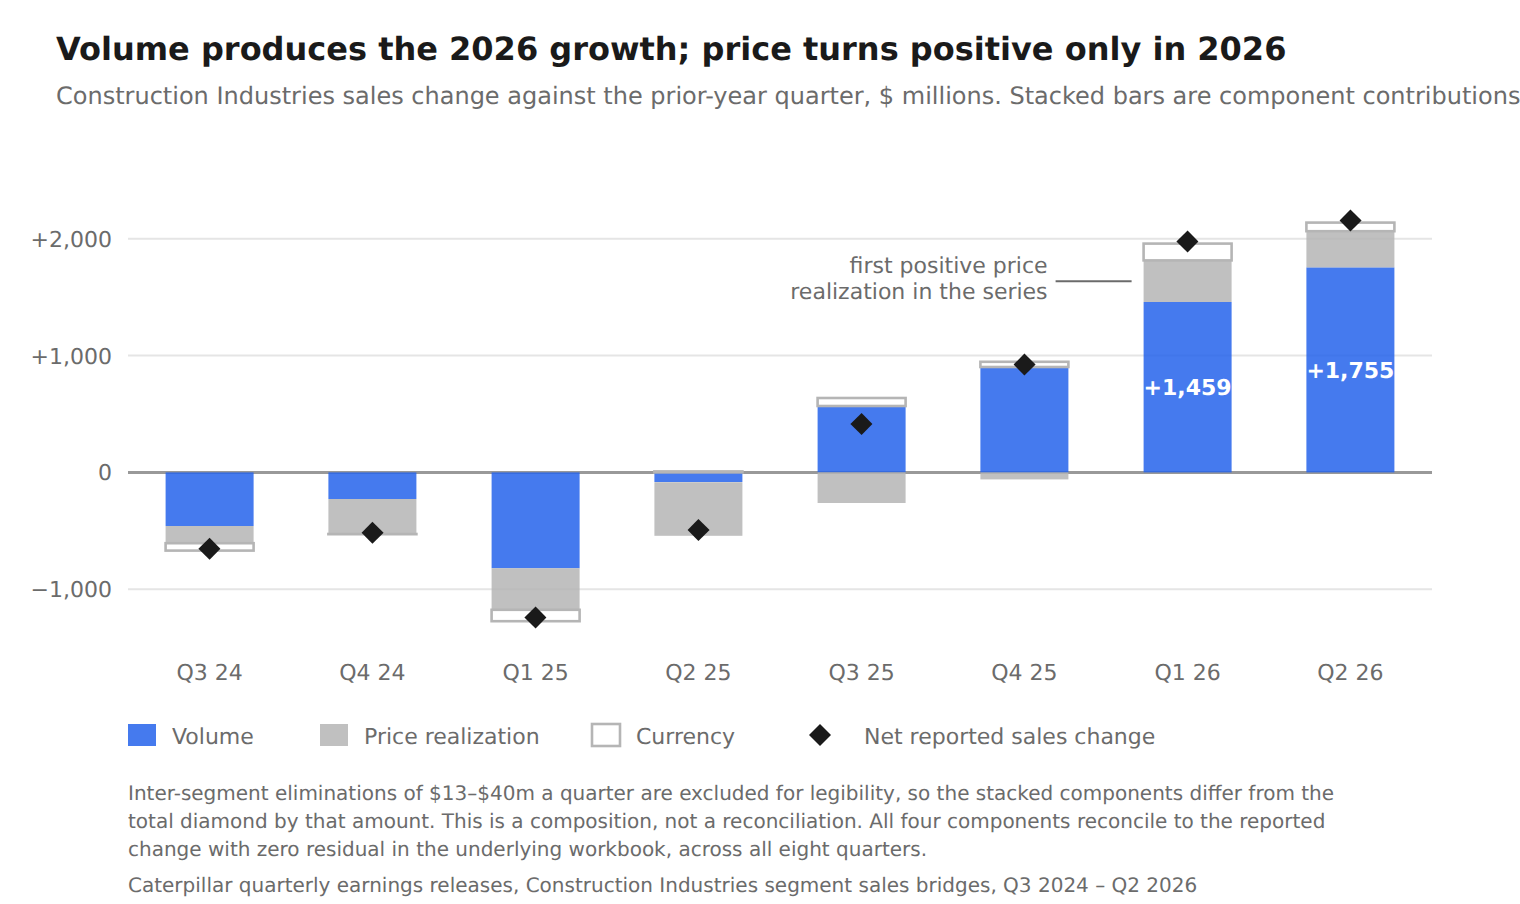
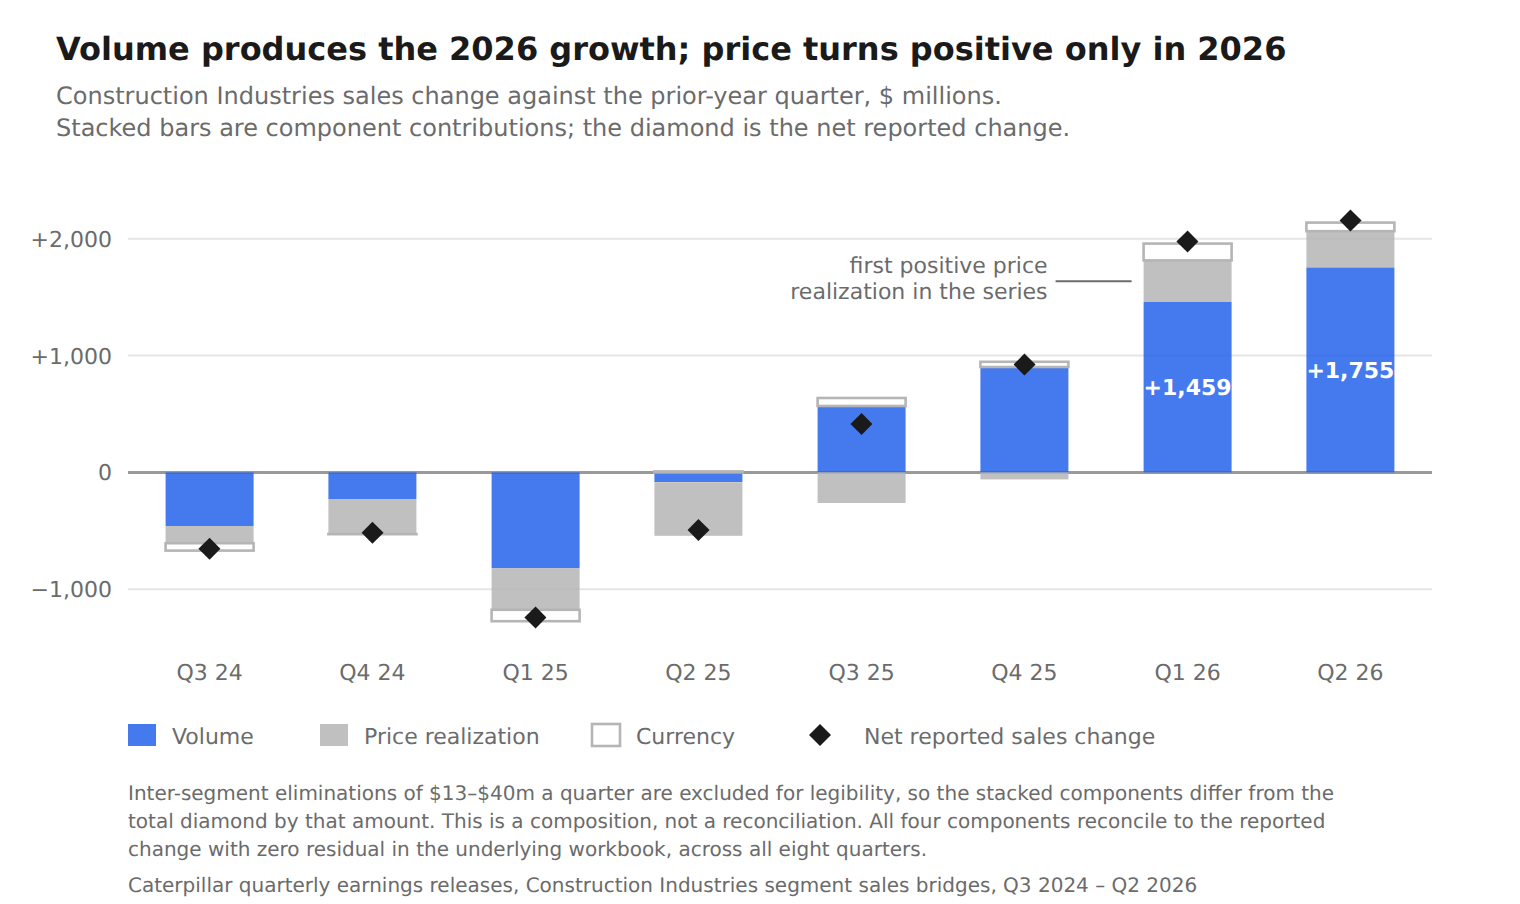
Replace corrected v2 Exhibit 4 assets and fix mobile exhibit titles
Replaces the downloadable case-study PDF and all stored/served Exhibit
4 derivatives (SVG, PNG, dark PNG) with the corrected v2 versions,
fixing a clipped two-line subtitle. No other exhibit, figure, caveat,
or chart geometry changed.

Also fixes mobile presentation for Exhibits 2-4: below 720px the
title/subtitle were previously inside the horizontally-scrollable
SVG and could be scrolled out of view before being read. They now
render as native HTML above the chart, with the SVG's own baked-in
title/subtitle region cropped out of the scroll viewport (via a
measured negative margin, not by editing the master SVGs) so there is
one visible title per card, never two. At 720px and up the crop is
removed and the SVG renders exactly as authored, unchanged from the
prior Gate B behavior.

Claude-Session: https://claude.ai/code/session_01NQLdAUjLhicdzBRFdWzUN5

Changed region(s): [[0.0309, 0.0929, 1.0, 0.1549]]

diff --git a/src/components/CaterpillarProjectPage.tsx b/src/components/CaterpillarProjectPage.tsx
@@ -32,21 +32,58 @@ const LIMITATIONS = [
 const DOCS_BASE =
   "https://github.com/2samfelix/Personal-Portfolio-/blob/main/caterpillar-demand-quality/docs";
 
+// Exhibits render at a 620px floor width below the 720px breakpoint (see the
+// horizontal-scroll treatment). Below that breakpoint the SVG's own baked-in
+// title/subtitle region is cropped out of the scrollable viewport — shifted
+// up via a negative margin sized from the SVG's own viewBox geometry — and
+// replaced by native HTML text above it, so the title is never clipped and
+// never duplicated. At 720px and up the crop is removed and the SVG renders
+// exactly as authored.
+const EXHIBIT_RENDER_WIDTH = 620;
+const EXHIBIT_NATURAL_WIDTH = 760;
+const CROP_SCALE = EXHIBIT_RENDER_WIDTH / EXHIBIT_NATURAL_WIDTH;
+
 function ExhibitFigure({
   src,
   alt,
   eyebrow,
+  title,
+  subtitle,
+  naturalHeight,
+  headerHeight,
 }: {
   src: string;
   alt: string;
   eyebrow: string;
+  title: string;
+  subtitle: string;
+  naturalHeight: number;
+  headerHeight: number;
 }) {
+  const croppedHeight = Math.round((naturalHeight - headerHeight) * CROP_SCALE);
+  const headerOffset = Math.round(headerHeight * CROP_SCALE);
+
   return (
     <div className="mt-4">
       <p className="text-xs font-semibold uppercase tracking-widest text-brass">{eyebrow}</p>
-      <div className="mt-3 overflow-x-auto rounded-xl border border-forest/15 bg-white p-4 sm:p-6">
-        {/* eslint-disable-next-line @next/next/no-img-element */}
-        <img src={src} alt={alt} className="w-full min-w-[620px]" />
+      <div className="mt-3 rounded-xl border border-forest/15 bg-white p-4 sm:p-6">
+        {/* Mobile-only title/subtitle: hidden at >=720px, where the SVG carries its own. */}
+        <div className="min-[720px]:hidden">
+          <p className="text-base font-semibold text-charcoal">{title}</p>
+          <p className="mb-3 mt-1 text-xs leading-5 text-charcoal-soft">{subtitle}</p>
+        </div>
+        <div
+          className="overflow-x-auto overflow-y-hidden min-[720px]:!h-auto min-[720px]:overflow-y-visible"
+          style={{ height: croppedHeight }}
+        >
+          {/* eslint-disable-next-line @next/next/no-img-element */}
+          <img
+            src={src}
+            alt={alt}
+            className="w-full min-w-[620px] min-[720px]:!mt-0"
+            style={{ marginTop: -headerOffset }}
+          />
+        </div>
       </div>
       <p className="mt-1.5 text-right text-xs italic text-charcoal-soft min-[720px]:hidden">
         Swipe to view chart &rarr;
@@ -127,6 +164,10 @@ export default function CaterpillarProjectPage({
             eyebrow="Exhibit 2"
             src="/caterpillar/exhibit-2-demand-quality-gap.svg"
             alt="Construction Industries price-adjusted sales growth against retail sales to end users, eight quarters. The gap narrowed from 24.3 points in Q1 2026 to 7.8 points in Q2 2026."
+            title="The shipping-to-retail gap narrowed from 24.3 points to 7.8 in Q2 2026"
+            subtitle="Construction Industries, year-over-year growth. Band = shipments above retail: a directional read on dealer stocking."
+            naturalHeight={452}
+            headerHeight={70}
           />
         </section>
 
@@ -174,6 +215,10 @@ export default function CaterpillarProjectPage({
             eyebrow="Exhibit 3"
             src="/caterpillar/exhibit-3-dealer-inventory-record.svg"
             alt="Disclosed dealer-inventory change by quarter. The Construction Industries build collapsed from 1.5 billion dollars in Q1 2026 to 400 million in Q2 2026."
+            title="Construction Industries dealer build collapsed from $1.5B to $0.4B in Q2 2026"
+            subtitle="Disclosed dealer-inventory change. Every quarter has two slots; a hatched stub means that figure was never disclosed."
+            naturalHeight={456}
+            headerHeight={70}
           />
         </section>
 
@@ -186,6 +231,10 @@ export default function CaterpillarProjectPage({
             eyebrow="Exhibit 4"
             src="/caterpillar/exhibit-4-operating-bridge.svg"
             alt="Construction Industries sales change by component, eight quarters. Volume produces the 2026 growth; price realization turns positive only in 2026."
+            title="Volume produces the 2026 growth; price turns positive only in 2026"
+            subtitle="Construction Industries sales change against the prior-year quarter, $ millions. Stacked bars are component contributions; the diamond is the net reported change."
+            naturalHeight={452}
+            headerHeight={86}
           />
         </section>
 
